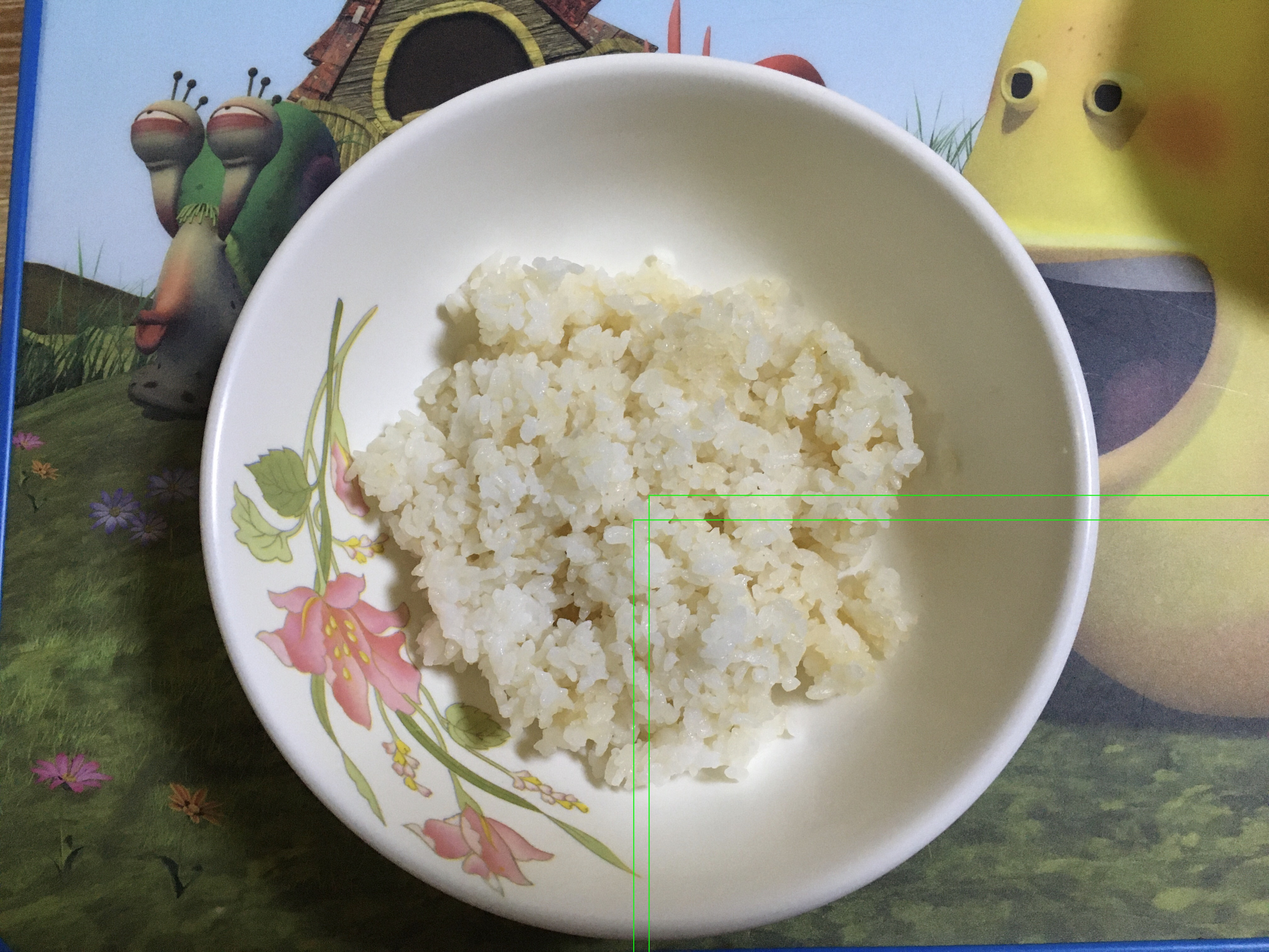
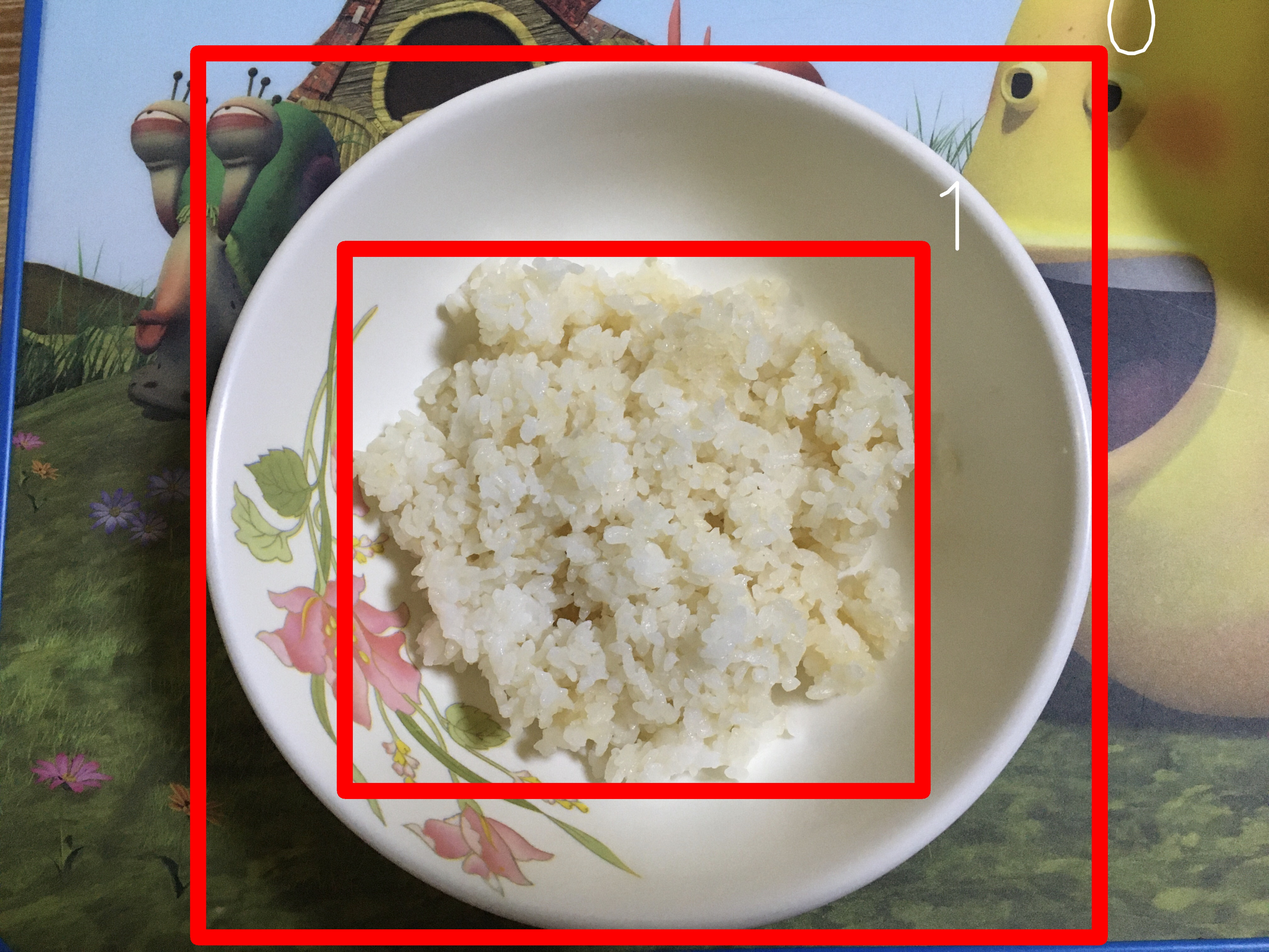
box done

Changed region(s): [[0.125, 0.0311, 0.9062, 0.9947], [0.25, 0.2487, 0.75, 0.8393], [0.75, 0.2176, 0.7812, 0.2487]]

diff --git a/datacheck/box.py b/datacheck/box.py
@@ -5,20 +5,26 @@ def draw_boxes(image_path, label_path, output_path):
     with open(label_path, 'r') as file:
         lines = file.readlines()
 
+    height, width, _ = image.shape
+    print(width, height)
+
     for line in lines:
         values = line.strip().split(' ')
         class_index = int(values[0])
-        x, y, width, height = map(float, values[1:])
-        
+        class_name = "0" if class_index == 0 else "1"  # 클래스 인덱스에 따라 클래스 이름 설정
+
         # 좌표를 픽셀 값으로 변환
-        height, width, _ = image.shape
-        x = int(float(x) * width)
-        y = int(float(y) * height)
-        width = int(width * width)
-        height = int(height * height)
+        x_w, y_w, width_w, height_w = map(float, values[1:])
+        x1 = int((x_w - width_w/2) * width)
+        y1 = int((y_w - height_w/2) * height)
+        x2 = int((x_w + width_w/2) * width)
+        y2 = int((y_w + height_w/2)* height)
         
-        # 객체의 경계 상자를 이미지에 그림
-        cv2.rectangle(image, (x, y), (x + width, y + height), (0, 255, 0), 2)
+        # 직사각형 그리기
+        cv2.rectangle(image, (x1, y1), (x2, y2), (0, 0, 255), 50)
+
+        # 박스 우상단에 클래스 이름 표시
+        cv2.putText(image, class_name, (x2, y1), cv2.FONT_HERSHEY_SIMPLEX, 10, (255, 255, 255), 10, cv2.LINE_AA)
     
     # 결과를 파일로 저장
     cv2.imwrite(output_path, image)
